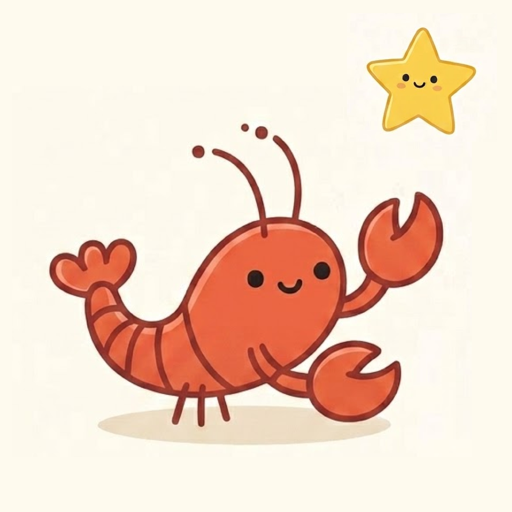
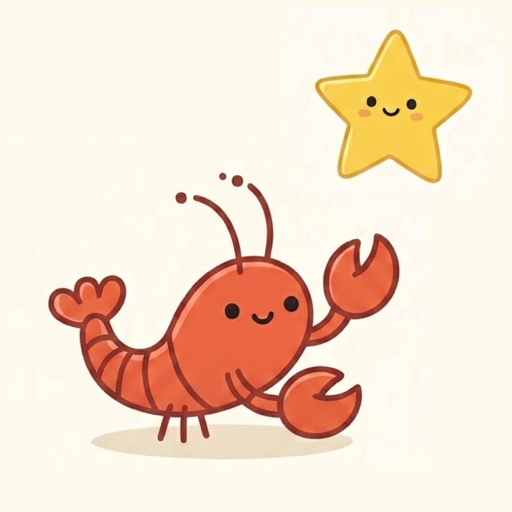
Rebalance the lob* mark and give the repo its own copy
Star scaled to about half the lobster so the pair reads balanced. The 1024px
master lands in docs/assets/ and heads the root README; the plugin manifest
keeps a 512px copy as its composerIcon.

Changed region(s): [[0.0938, 0.0312, 0.9375, 0.9062], [0.375, 0.2812, 0.5, 0.375]]

diff --git a/README.md b/README.md
@@ -1,5 +1,7 @@
 # lobstah 🦞✨
 
+<img src="docs/assets/lob-star.png" align="right" width="160" alt="lobstah — a lobster waving at a star">
+
 *Nobody stares at the water.*
 
 [![CI](https://github.com/aequitas-labs/lobstah/actions/workflows/ci.yml/badge.svg)](https://github.com/aequitas-labs/lobstah/actions/workflows/ci.yml)
